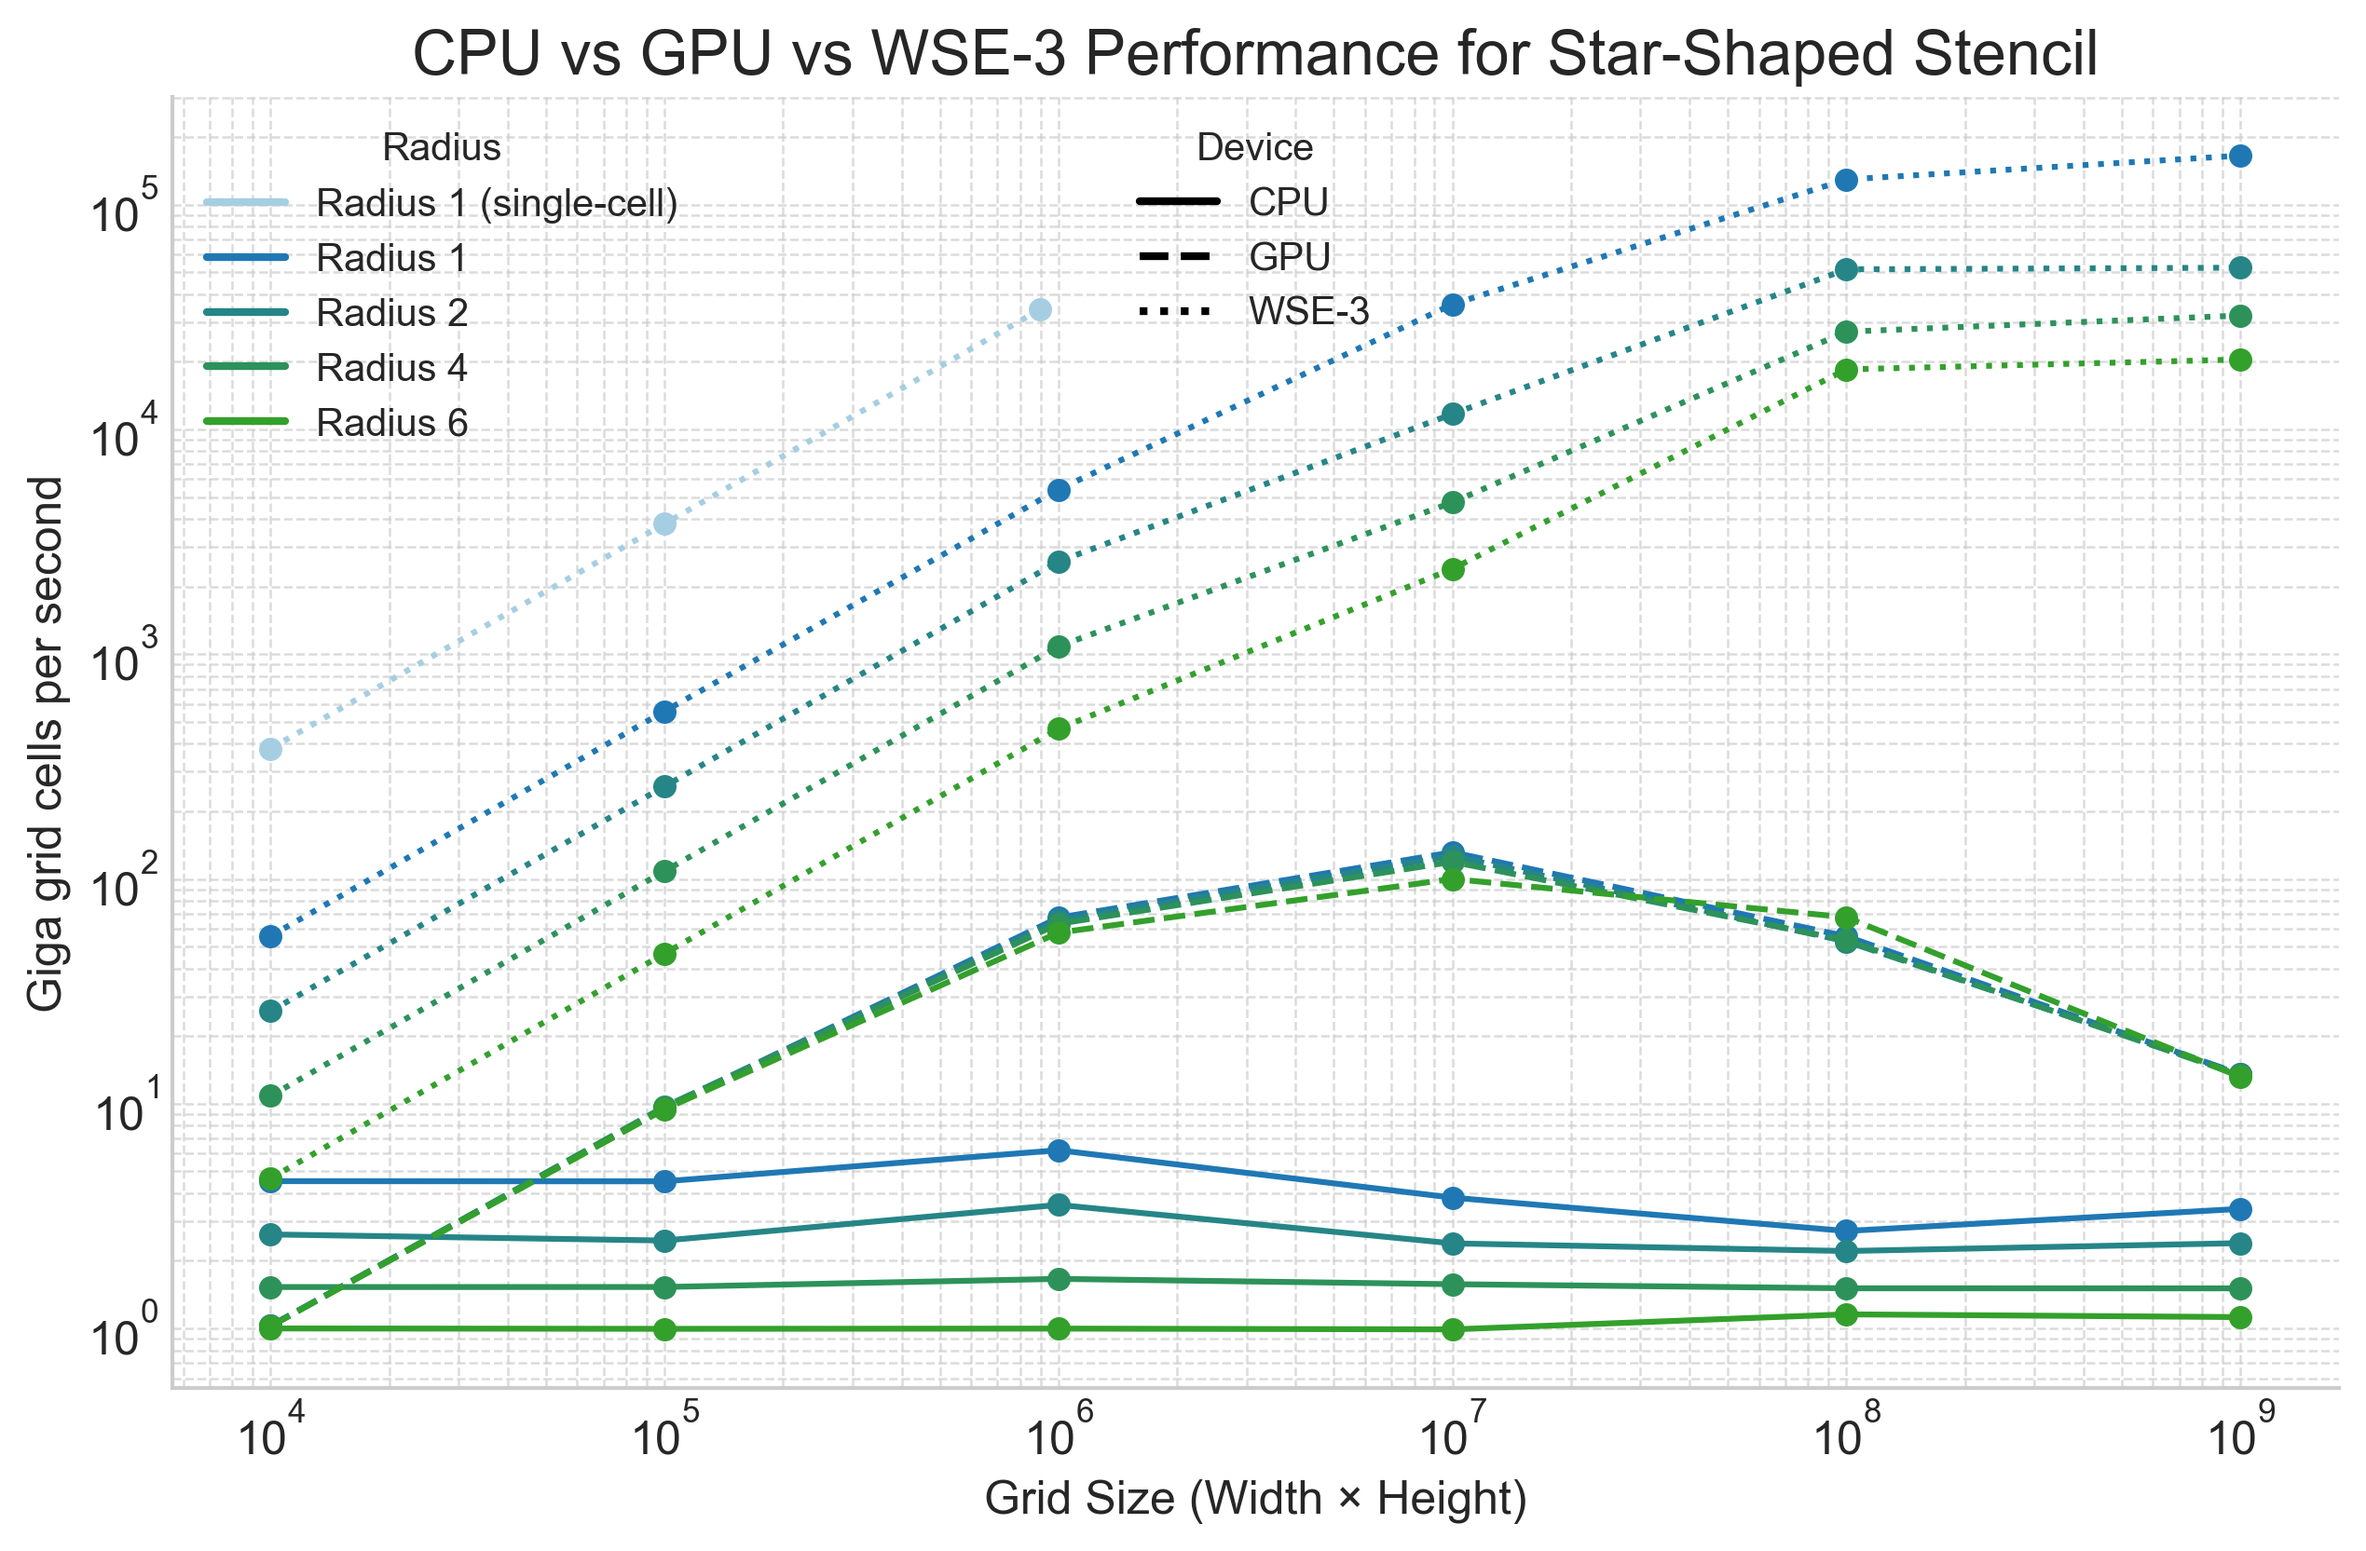
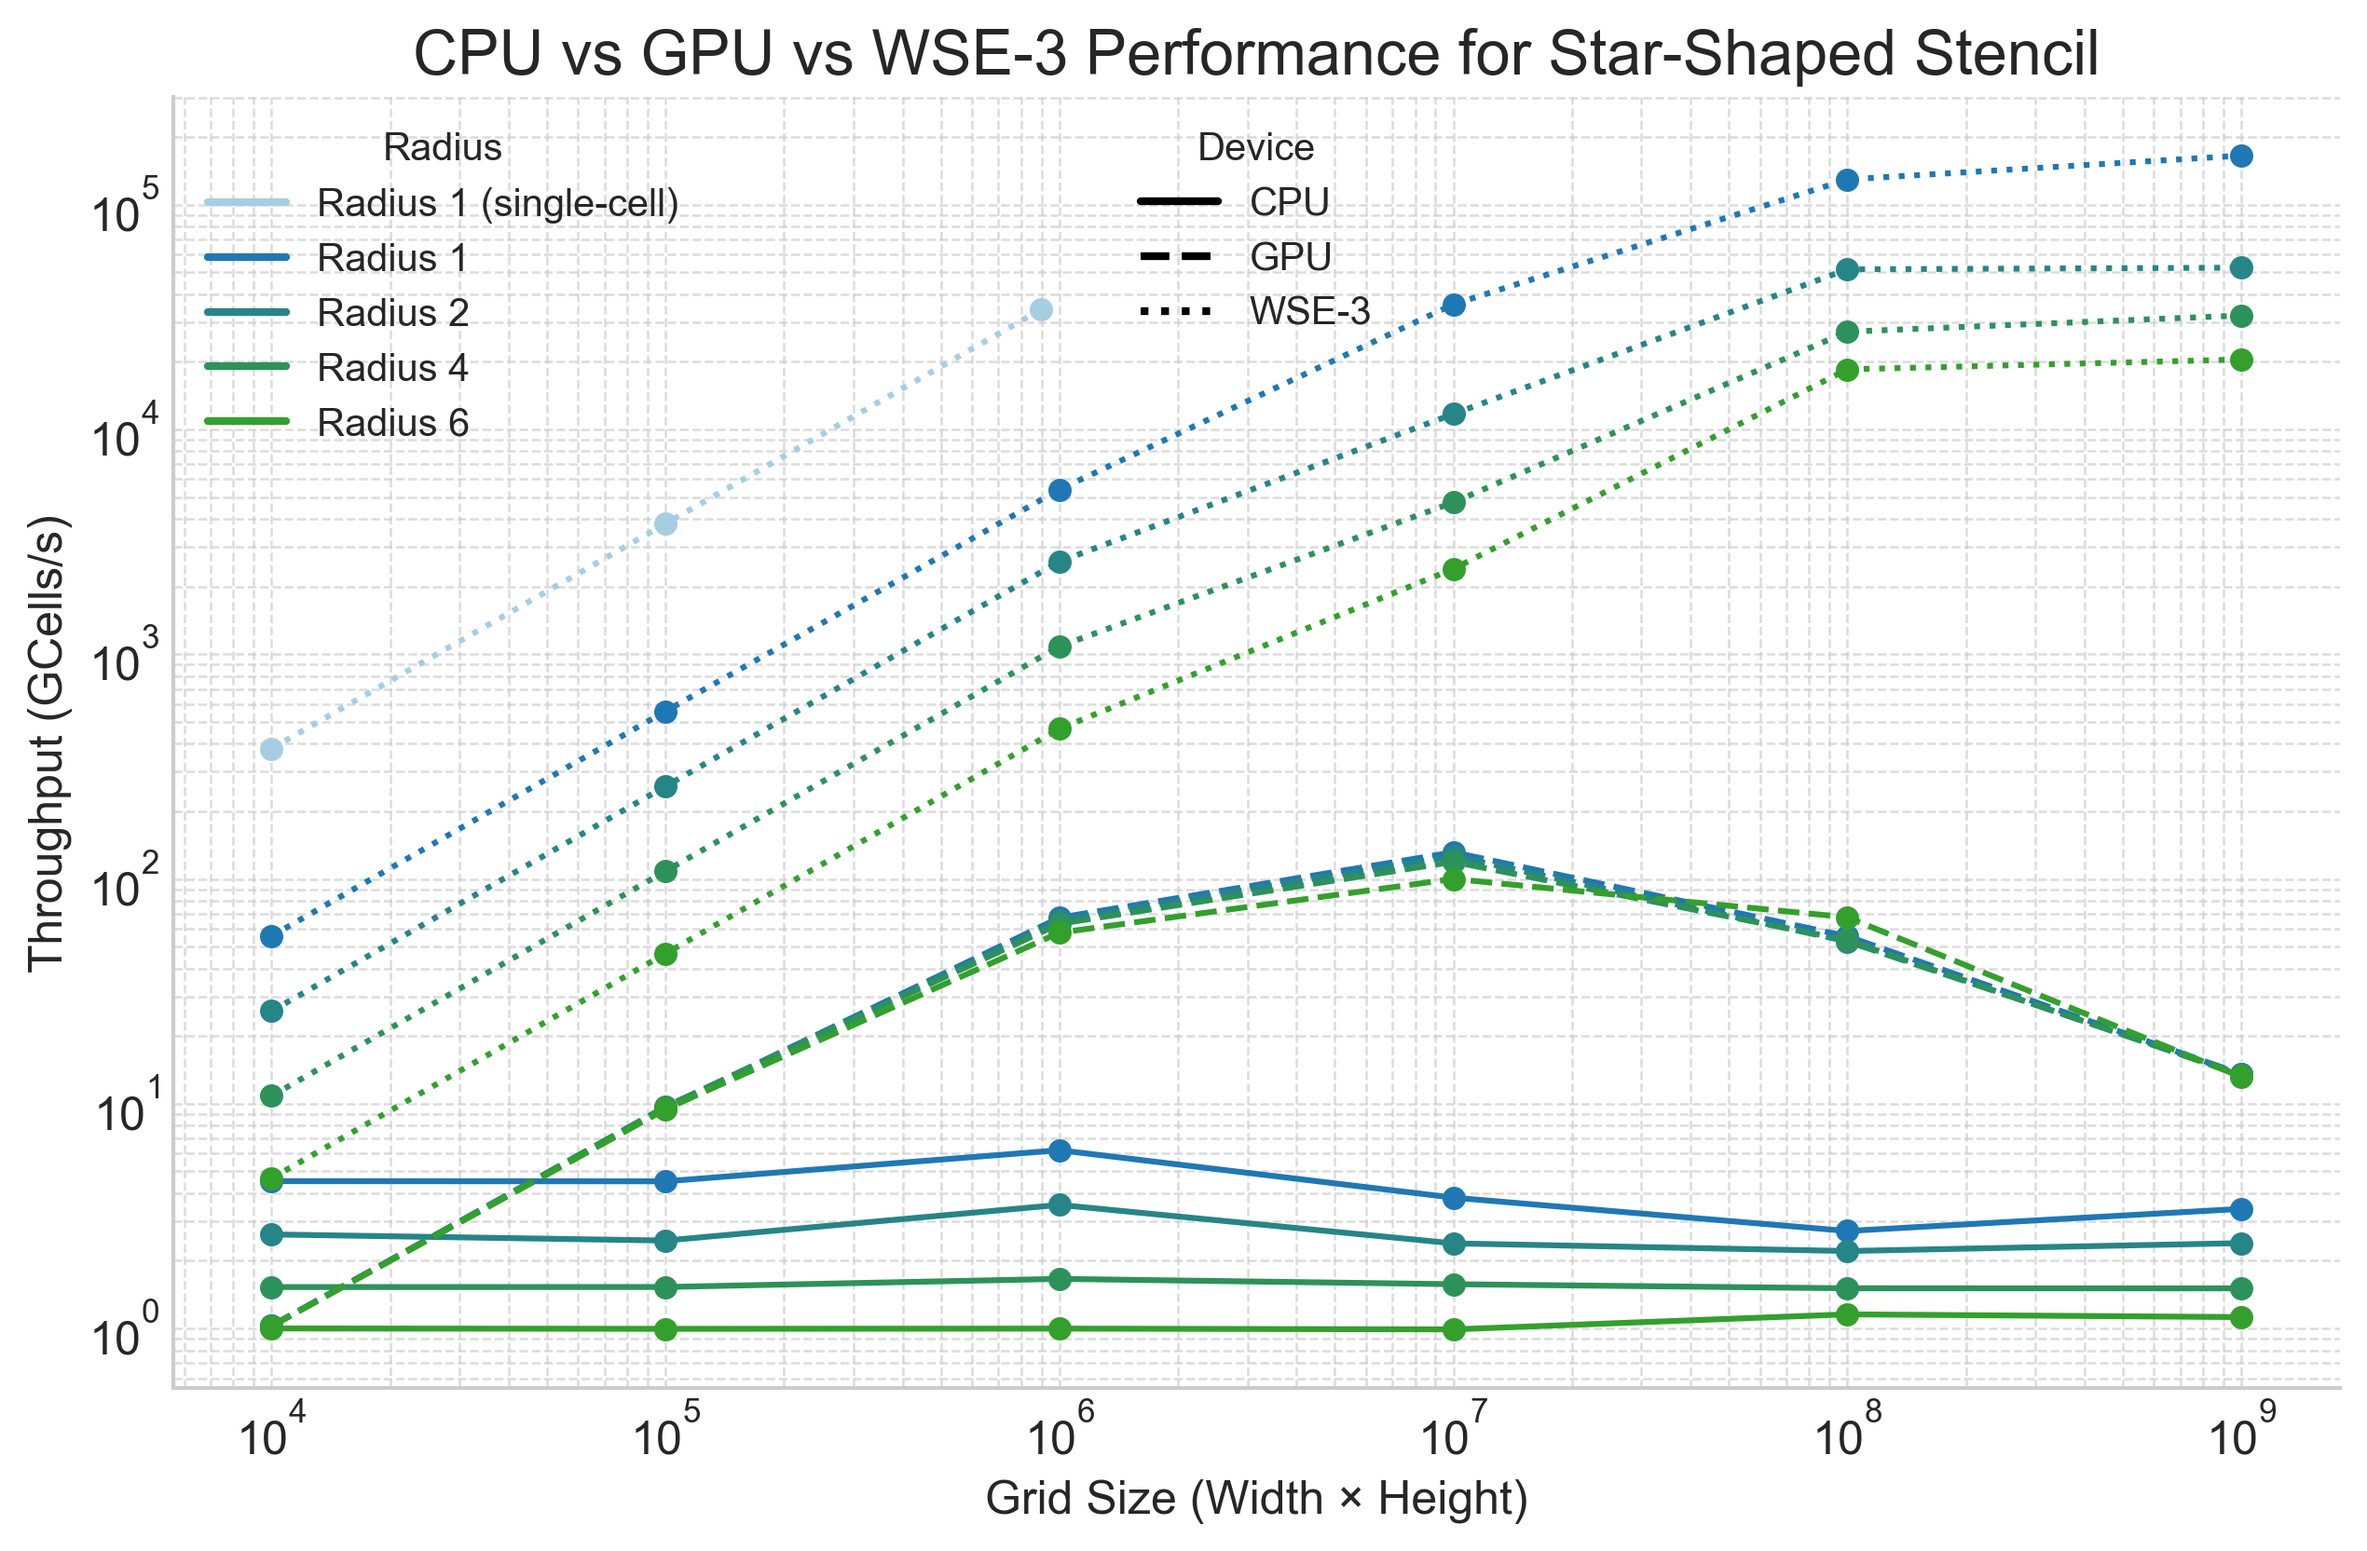
properly name y axis in gpu cpu compare plot

diff --git a/Figures/code/plot_gpu_cpu_constant_product.py b/Figures/code/plot_gpu_cpu_constant_product.py
@@ -306,7 +306,7 @@ ax.set_xlabel('Grid Size (Width × Height)')
 if METRIC_TYPE == "ips":
     ylabel = 'Iterations per second'
 elif METRIC_TYPE == "gcells":
-    ylabel = 'Giga grid cells per second'
+    ylabel = 'Throughput (GCells/s)'
 else:  # default to "time"
     ylabel = 'Time (ms) for constant work (grid size × iterations = 1e10)'
 ax.set_ylabel(ylabel)
